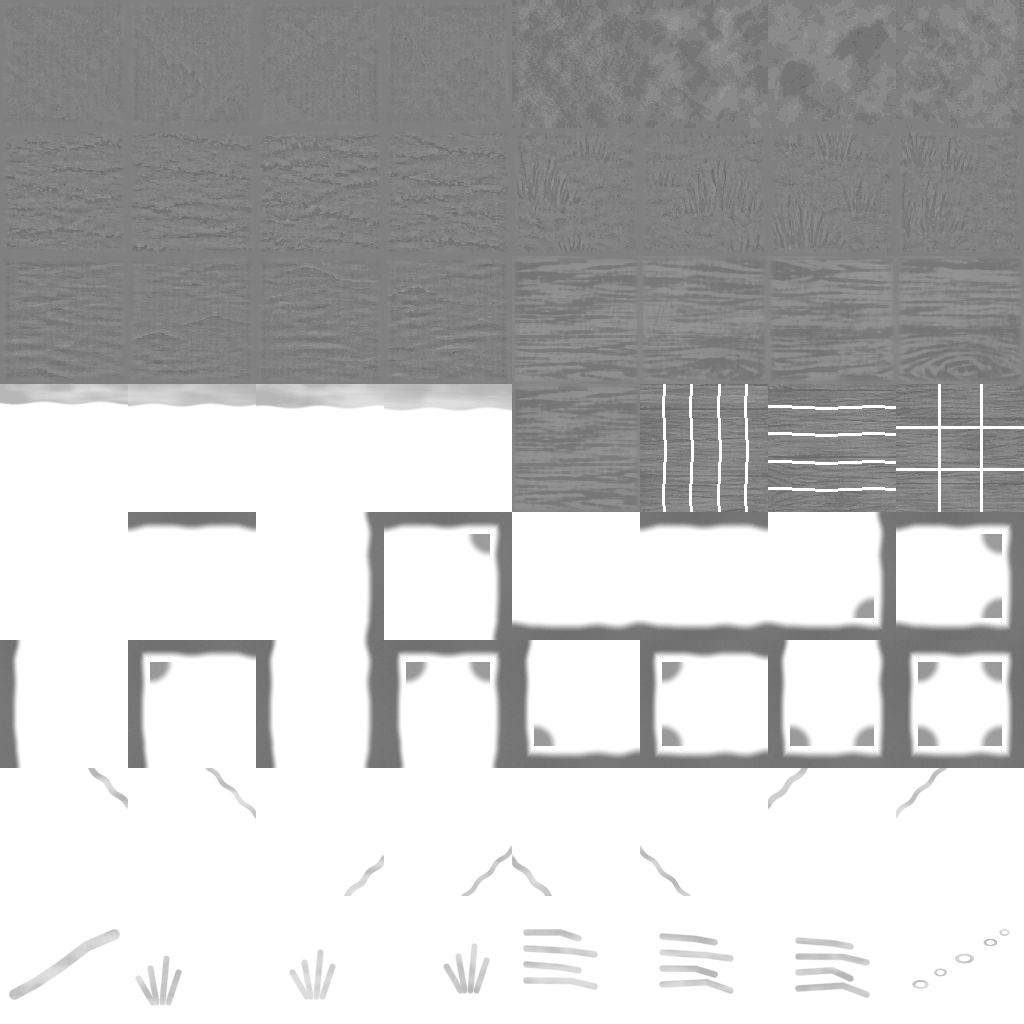
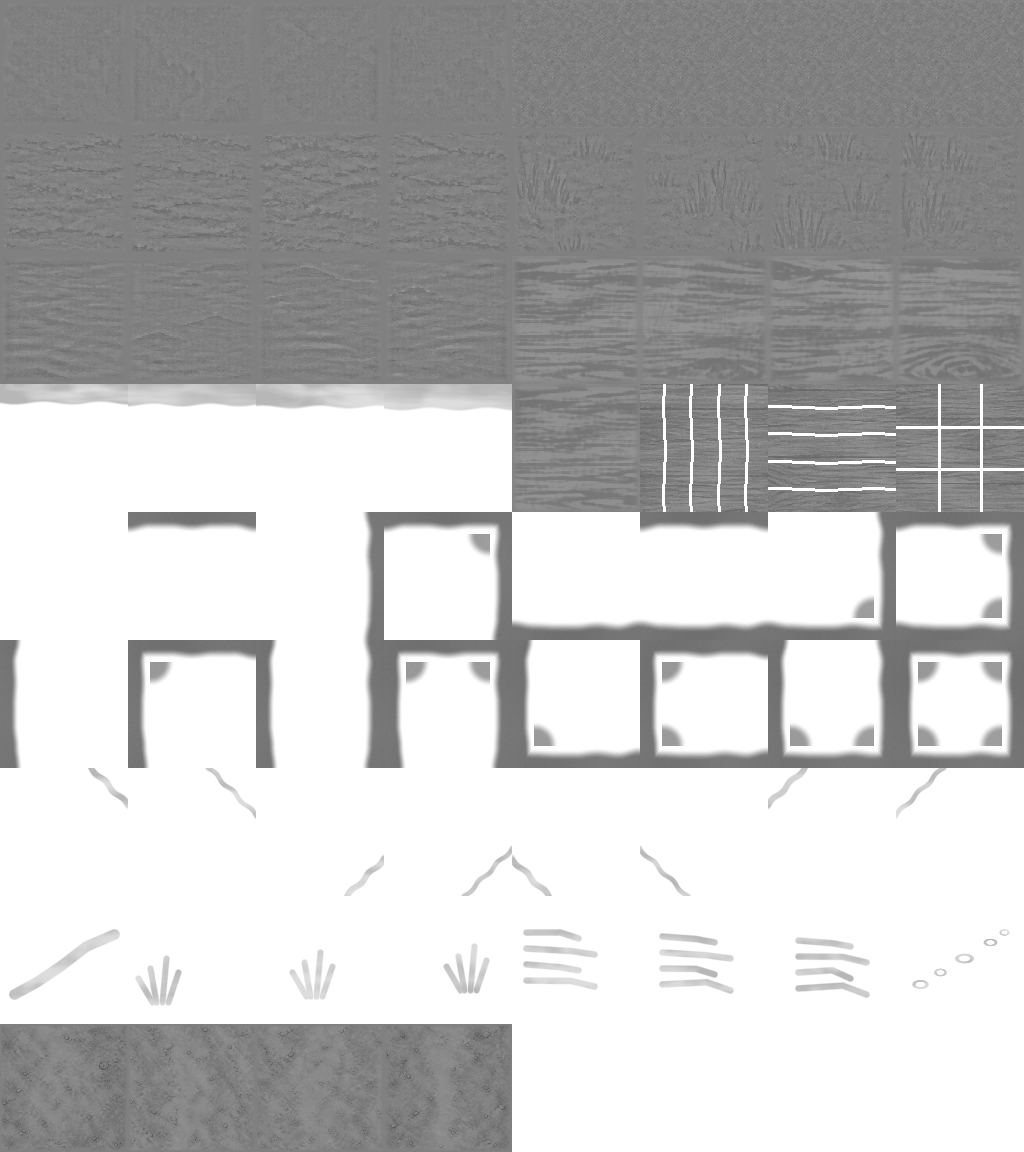
Improved terrain rendering.

diff --git a/environments/three_branches/renderer/terrain/terrain-assets.test.ts b/environments/three_branches/renderer/terrain/terrain-assets.test.ts
@@ -9,12 +9,12 @@ const SIZE = 128
 const FILL_FAMILIES = [
   ['washA', 'washB', 'washC', 'washD'],
   ['roadA', 'roadB', 'roadC', 'roadD'],
+  ['pathA', 'pathB', 'pathC', 'pathD'],
   ['furrowA', 'furrowB', 'furrowC', 'furrowD'],
   ['reedsA', 'reedsB', 'reedsC', 'reedsD'],
   ['rippleA', 'rippleB', 'rippleC', 'rippleD'],
   ['floorA', 'floorB', 'floorC', 'floorD'],
 ] as const
-const SELF_TILING_ONLY_FAMILIES = new Set<string>(['roadA'])
 function frame(name: string): Uint8ClampedArray {
   const path = resolve(
     process.cwd(),
@@ -98,10 +98,6 @@ describe('Three Branches terrain raster contract', () => {
         expect(edge(pixels, 'right')).toEqual(edge(pixels, 'left'))
         expect(edge(pixels, 'bottom')).toEqual(edge(pixels, 'top'))
       }
-      // Terrain art picks a variant per cell, so neighbours routinely differ. The road rasters are
-      // currently authored with per-variant borders and only hold the weaker self-tiling contract
-      // above until they are regenerated.
-      if (SELF_TILING_ONLY_FAMILIES.has(family[0])) continue
       for (const first of variants) {
         for (const second of variants) {
           expect(edge(first, 'right')).toEqual(edge(second, 'left'))

diff --git a/environments/three_branches/renderer/assets.ts b/environments/three_branches/renderer/assets.ts
@@ -101,6 +101,10 @@ export const TERRAIN_ATLAS_FRAME_NAMES = [
   'furrowEndB',
   'furrowEndC',
   'bankStones',
+  'pathA',
+  'pathB',
+  'pathC',
+  'pathD',
 ] as const
 
 export const BUILDINGS_ATLAS_FRAME_NAMES = [
@@ -209,10 +213,10 @@ export const THREE_BRANCHES_ASSET_CATALOG = [
     name: 'terrain',
     source: './assets/source-art/terrain-atlas-source.png',
     sourceWidth: 1536,
-    sourceHeight: 1024,
+    sourceHeight: 1152,
     path: './assets/terrain-atlas.png',
     width: 1024,
-    height: 1024,
+    height: 1152,
     tintable: true,
     format: 'grayscale-alpha',
     consumer: 'terrain fills, transitions, bridge planks, and the upper-wall repaint',
@@ -220,7 +224,7 @@ export const THREE_BRANCHES_ASSET_CATALOG = [
       width: 128,
       height: 128,
       columns: 8,
-      rows: 8,
+      rows: 9,
       names: TERRAIN_ATLAS_FRAME_NAMES,
     },
   },

diff --git a/plans/days-at-three-branches/stages/5-0-atlas.md b/plans/days-at-three-branches/stages/5-0-atlas.md
@@ -10,7 +10,7 @@ Every named atlas frame lives as one loose PNG beside the compiled page. A page 
 
 | Page | Frames directory | Frames |
 | --- | --- | --- |
-| `terrain-atlas.png` | `assets/terrain/` | 64 |
+| `terrain-atlas.png` | `assets/terrain/` | 68 |
 | `buildings-atlas.png` | `assets/buildings/` | 16 |
 | `props-atlas.png` | `assets/props/<type>/<state>.png` for ordinary props | 15 |
 | `monuments-atlas.png` | `assets/monuments/<type>/<state>.png` plus `assets/monuments/bell/foundation.png` | 5 |
@@ -21,6 +21,8 @@ Every named atlas frame lives as one loose PNG beside the compiled page. A page 
 The Frames column counts loose files, not frame pixels. Each page's current frame dimensions, count, and names live in `renderer/assets.ts` and change only with the consuming art unit, its loose files, compiled page, source-art metadata, plan facts, and tests in the same change set.
 
 A frame's name is the camel case of its path under the frames directory: `terrain/washA.png` is `washA`, `props/repair_bench/busy.png` is `repairBenchBusy`, and `characters/body/rest.png` is `rest` in the body layer. Frame files must be exactly the page's declared frame size.
+
+The terrain page is an 8 by 9 grid of 128 px frames on a 1024 by 1152 runtime page. Its 68 named frames leave the final four cells transparent. The 1536 by 1152 source page uses 192 by 128 preview cells.
 
 The props frame names in `assets.ts` derive from ordinary catalog tokens and states. Slots 0 through 14 name complete states in catalog order, from `stallOpen` through `repairBenchIdle`; slots 15 through 35 are an unnamed trailing suffix that the packer fills transparently. The runtime page is 2304 by 1536, with 384 by 256 runtime frames and no downsampling. `assets/props/` contains no pump or bell files.
 
@@ -50,7 +52,7 @@ Freshness is pixel defined, never byte defined: checks decode both sides and com
 
 `assets.ts` keeps the catalog, page paths, grids, dimensions, and runtime load function. The runtime loader includes its ten shipped pages: terrain, props, monuments, buildings, scenery, the four character layers, and effects. Later approved visual units add pages when their consumers land. `source-art/` keeps the high-resolution provenance for every authored page and grows with approved art. Skirmish at Crane Reach ships loose ungridded files and needs nothing from this stage.
 
-The road pilot retains its four native 1254 by 1254 colour sources in `renderer/source-art/road-material-source.png`, ordered `roadA roadB / roadC roadD`. The terrain source page keeps grayscale 192 by 128 previews of those sources in slots 4 through 7; loose runtime frames remain the packer's editable input.
+`assets/source-art/road-material-source.png` retains the accepted 1254 by 1254 packed-earth master. The four road runtime frames share its even base so deterministic frame selection cannot create tonal blocks. `assets/source-art/path-material-source.png` retains the four-quadrant worn-stone path source. The terrain source page keeps grayscale previews for road slots 4 through 7 and path slots 64 through 67. Loose runtime frames remain the packer's editable input.
 
 ## Migration
 
@@ -66,4 +68,4 @@ All three ride the existing vitest include globs, so `scripts/ci.py` needs no ch
 
 ## Done when
 
-All ten declared pages have complete committed loose frame sets, each compiled page matches its current manifest, `assets/props-atlas.png` matches its 15 ordinary loose prop frames with transparent cells 15 through 35, and `assets/monuments-atlas.png` matches its five sole-authority monument frames with a transparent sixth cell. `npm run atlas --workspace @game-sandbox/frontend -- check three_branches` passes, the packer and freshness tests are green in CI, the runtime bundle loads only pages with shipped consumers, every authored page retains its source-art provenance, and the plan README and consuming stages reference this pipeline.
+All ten declared pages have complete committed loose frame sets, each compiled page matches its current manifest, the terrain page matches its 68 frames with four transparent trailing cells, `assets/props-atlas.png` matches its 15 ordinary loose prop frames with transparent cells 15 through 35, and `assets/monuments-atlas.png` matches its five sole-authority monument frames with a transparent sixth cell. `npm run atlas --workspace @game-sandbox/frontend -- check three_branches` passes, the packer and freshness tests are green in CI, the runtime bundle loads only pages with shipped consumers, every authored page retains its source-art provenance, and the plan README and consuming stages reference this pipeline.

diff --git a/plans/days-at-three-branches/stages/5-3-visual-refinement.md b/plans/days-at-three-branches/stages/5-3-visual-refinement.md
@@ -38,7 +38,7 @@ First, inspect the current terrain against the approved references at fitted, mi
 
 Keep the tintable terrain composition, deterministic patterning, routes, bridges, geometry, and layer ownership. Remove the daytime authored grade only. Keep the night grade, contact shadows, emissives, and ungraded HUD and annotations.
 
-The live renderer now has no daytime authored grade. The first Hearthside palette comparison adds dedicated terrain colours and remaps only terrain materials. It awaits owner visual approval. The terrain repaint and both owner approvals remain in this unit.
+The live renderer now has no daytime authored grade. The first Hearthside palette comparison adds dedicated terrain colours and remaps only terrain materials. Dedicated packed-earth road and sparse worn-stone path frames are integrated for the first comparison. The owner accepted the shared even road base, which prevents per-cell tonal blocks. The path treatment and remaining terrain review still await owner approval. The terrain repaint and both owner approvals remain in this unit.
 
 ### 2. Split pines and market crate
 

diff --git a/plans/days-at-three-branches/stages/5-1-art-style.md b/plans/days-at-three-branches/stages/5-1-art-style.md
@@ -141,7 +141,7 @@ The local manifest is the only asset catalog. Keep only the high-resolution orig
 
 | Group | Compiled dimensions | Contents |
 | --- | --- | --- |
-| Terrain | 128 px cells on one 1024 by 1024 atlas page | A few fill variants for each ground class, retained compatibility masks, the wall tiles' upper-layer repaint, and bridge plank tiles |
+| Terrain | 128 px cells on one 1024 by 1152 atlas page | A few fill variants for each ground class, retained compatibility masks, the wall tiles' upper-layer repaint, and bridge plank tiles |
 | Buildings | 64 px cells | Semantic roof tiles for the home, the inn, and the repair shed |
 | Props | 384 by 256 cells on one 2304 by 1536 atlas page | Current baseline: fifteen complete full-colour ordinary prop stills, with transparent cells 15 through 35. Step 5.3 unit 3 extracts the two lantern frames. |
 | Monuments | 768 by 512 cells on one 2304 by 1024 atlas page | The sole fixed-north pump stills and both bell parts, tightly authored around their configured source-pixel anchors and scale divisors |
